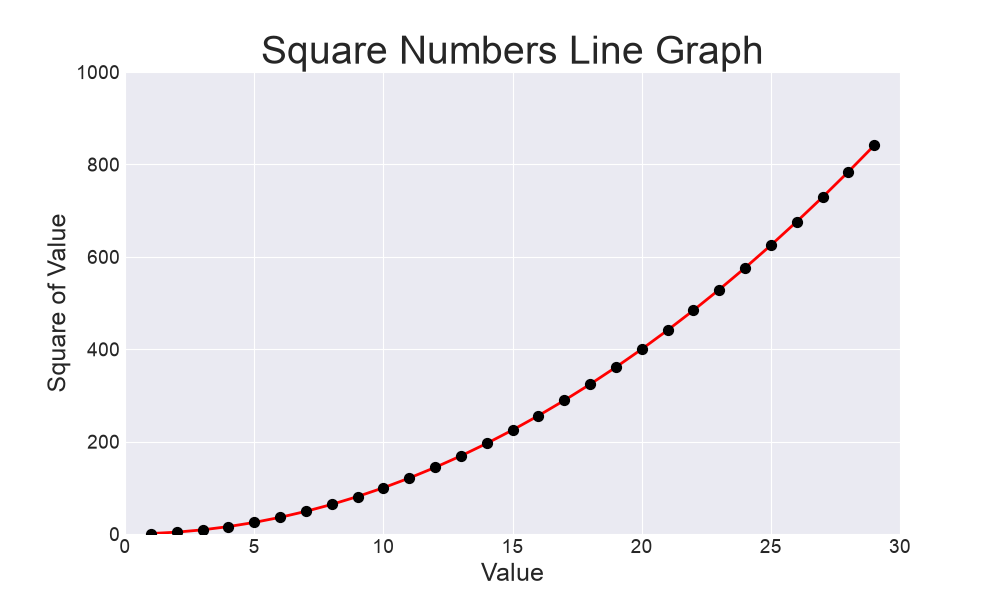
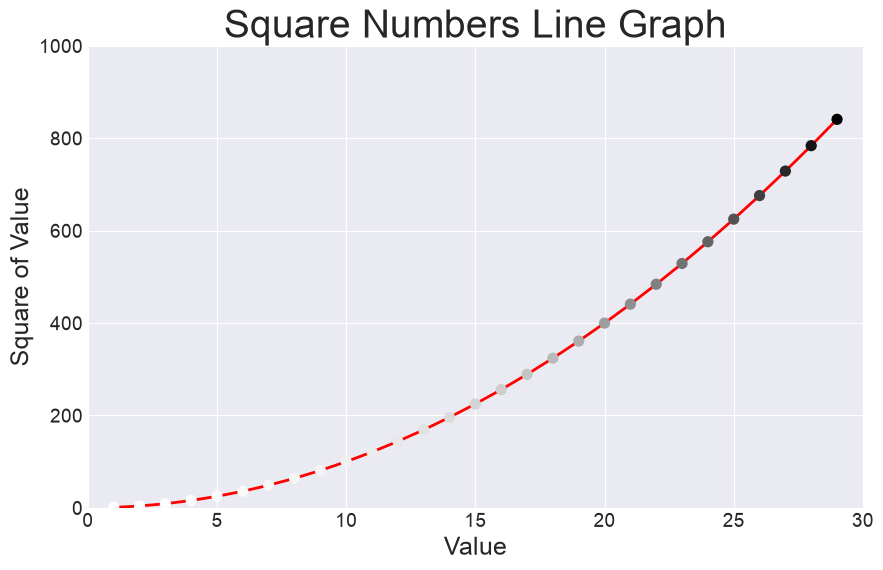
a new pattern namely wave pattern explored with a creation of an art

diff --git a/src/plots/mpl_squares.py b/src/plots/mpl_squares.py
@@ -20,7 +20,7 @@ fig, ax = plt.subplots(figsize=(10, 6)) # width and height in inches
 ax.plot(x_values, y_values, color='red', linewidth=2, zorder=1)
 
 # styling indivual points, s is the size of the points 
-ax.scatter(x_values, y_values, color='black', s=50, zorder=2) # RGB color=(0,0.8,0)
+ax.scatter(x_values, y_values, c=y_values, cmap=plt.cm.Greys, s=50, zorder=2) # RGB color=(0,0.8,0)
 
 # set chart title and label axes 
 ax.set_title("Square Numbers Line Graph", fontsize=28)
@@ -37,6 +37,7 @@ ax.ticklabel_format(style='plain') # other style: sci(scietific), engineering(1e
 ax.axis([0, 30, 0, 1000])
 
 # we can save the figure through code in a directory (dpi = dots per inch allows us to install better quality picture)
-plt.savefig('/home/sujon/Project/mirror-metrics/output/graph/line-graph.png', dpi=100)
+# bbox_inches: Removes extra whitespace around the figure when saving:
+plt.savefig('/home/sujon/Project/mirror-metrics/output/graph/line_square_graph.png', bbox_inches='tight', dpi=100)
 plt.show()
 

diff --git a/src/art/art_one.py b/src/art/art_one.py
@@ -1,0 +1,21 @@
+import matplotlib.pyplot as plt
+import math
+
+'''
+This is an expriment which creats a wave of form to create an art. 
+The art png is avaiable int he directory: output/art/art_one.png
+'''
+x_values = [i * 0.1 for i in range(499)]
+x_values = list(range(5000))
+y_values = [100 * math.sin(x) for x in x_values]
+
+fig, ax = plt.subplots(figsize=(10, 6)) 
+
+ax.plot(x_values, y_values, color='red', linewidth=1, zorder=1)
+ax.scatter(x_values, y_values, c=y_values, cmap=plt.cm.Blues, s=20, zorder=2)
+ax.set_title("Wave Pattern", fontsize=28)
+ax.set_xlabel("Value", fontsize=18)
+ax.set_ylabel("Amplitude", fontsize=18)
+
+plt.savefig('/home/sujon/Project/mirror-metrics/output/art/art_one.png', bbox_inches='tight', dpi=100)
+plt.show()

diff --git a/src/plots/wave_pattern.py b/src/plots/wave_pattern.py
@@ -1,0 +1,16 @@
+import matplotlib.pyplot as plt
+import math
+
+x_values = [i * 0.1 for i in range(499)]
+y_values = [100 * math.sin(x) for x in x_values]
+
+fig, ax = plt.subplots(figsize=(10, 6)) 
+
+ax.plot(x_values, y_values, color='red', linewidth=1, zorder=1)
+ax.scatter(x_values, y_values, c=y_values, cmap=plt.cm.Blues, s=20, zorder=2)
+ax.set_title("Wave Pattern", fontsize=28)
+ax.set_xlabel("Value", fontsize=18)
+ax.set_ylabel("Amplitude", fontsize=18)
+
+plt.savefig('/home/sujon/Project/mirror-metrics/output/graph/wave_pattern_graph.png', bbox_inches='tight', dpi=100)
+plt.show()
